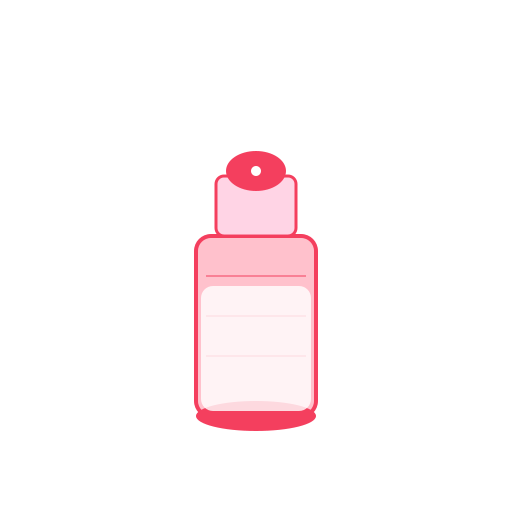
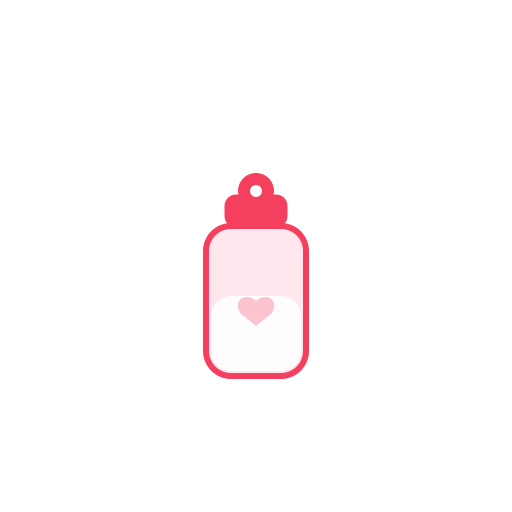
feat: 优化APP图标和状态栏融合体验
用户反馈优化：
1. 奶瓶图标太写实 → 改为简笔画风格
2. 状态栏和页面间有分割线 → 完全去除分割感

图标优化：
- 移除复杂的刻度线和细节
- 使用简单的圆角矩形 + 圆形
- 添加可爱的小爱心装饰
- 配色：浅粉色瓶身 + Rose色边框
- 风格：萌系简笔画，更抽象可爱

状态栏融合优化：
1. Layout容器改造
   - 移除 border-x border-rose-100（左右边框）
   - 移除 shadow-2xl（顶部阴影）
   - 移除 bg-white/90 backdrop-blur-sm（半透明效果）
   - 改为纯白色背景 bg-white
   - body背景也改为纯白色

2. 首页顶部间距优化
   - p-4 → px-4（移除顶部padding）
   - pt-6 → pt-4（减少顶部间距）
   - 让内容更贴近状态栏

视觉效果：
✅ 图标：超萌简笔画奶瓶
✅ 状态栏：完全无缝衔接，无分割线
✅ 整体：像原生APP一样流畅
✅ 颜色：纯白色统一

修改文件：
- public/icon.svg - 简笔画风格重绘
- public/icon-192.png - 重新生成
- public/icon-512.png - 重新生成
- app/layout.tsx - 移除边框和阴影
- app/home-client.tsx - 优化顶部间距

Changed region(s): [[0.375, 0.2812, 0.625, 0.8438]]

diff --git a/app/layout.tsx b/app/layout.tsx
@@ -45,10 +45,10 @@ export default function RootLayout({
 }) {
   return (
     <html lang="zh-CN">
-      <body className={`${inter.className} bg-[#FFF5F5]`}>
+      <body className={`${inter.className} bg-white`}>
         <RegisterSW />
         <SWRProvider>
-          <div className="max-w-[430px] mx-auto min-h-screen border-x border-rose-100 shadow-2xl bg-white/90 backdrop-blur-sm">
+          <div className="max-w-[430px] mx-auto min-h-screen bg-white">
             {children}
           </div>
         </SWRProvider>

diff --git a/app/home-client.tsx b/app/home-client.tsx
@@ -51,9 +51,9 @@ export default function HomePageClient() {
   }
 
   return (
-    <div className="min-h-screen p-4 pb-24">
+    <div className="min-h-screen px-4 pb-24">
       {/* 顶部：宝宝年龄 */}
-      <div className="text-center pt-6 pb-6">
+      <div className="text-center pt-4 pb-6">
         <div className="flex items-center justify-center gap-2 mb-3">
           <Baby className="h-8 w-8 text-stone-600" />
           <h1 className="text-3xl font-bold text-stone-700">
